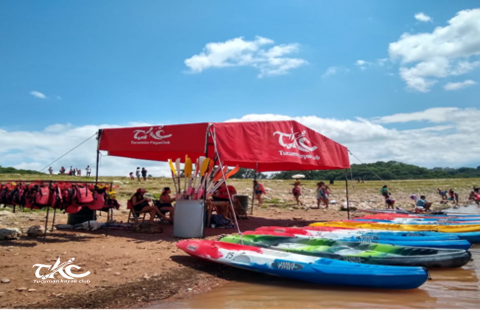
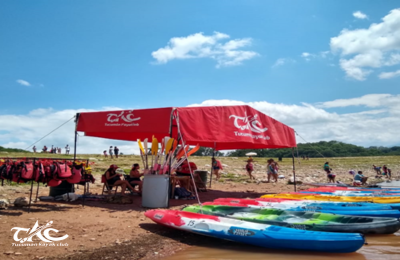
corregi donde encontrarnos y servicio de alquiler de kayak

diff --git a/src/components/views/servicios/AlquilerKayak.jsx b/src/components/views/servicios/AlquilerKayak.jsx
@@ -1,6 +1,6 @@
 import React from 'react';
 import { Container, Row, Col, Nav } from "react-bootstrap"
-import imgAlquilerKayak from "../../../assets/imagenes/portada.jpg"
+import imgAlquilerKayak from "../../../assets/imagenes/carpatkc.png"
 import whatsapp from "../../../assets/imagenes/icons8-whatsapp.svg"
 
 const AlquilerKayak = () => {
@@ -20,8 +20,8 @@ const AlquilerKayak = () => {
                             <article data-aos="fade-up" className='p-3 text-center'>
                                 <h5 className='textTitulo'>Alquiler de Kayaks</h5>
                                 <ul className='p-0 m-0'>
-                                    <li className='textSubtitulo'>Descripcion: <br /><span className='textExplicacion'>Lorem ipsum dolor sit amet consectetur adipisicing elit. Cum vero praesentium consequuntur in voluptas reiciendis pariatur optio nemo, voluptates error?</span></li>
-                                    <Nav.Link className="text-light mt-2 fs-5 d-flex justify-content-center align-items-center" target='_blank' href="https://api.whatsapp.com/send?phone=3816097754&text=¡Hola! me gustaria hacer una consulta sobre ALQUILERKayak DE QUINCHO PARA EVENTOS"><img src={whatsapp} className='icono-header mx-1' alt="whatsapp" />Enviar Mensaje</Nav.Link>
+                                    <li className='textSubtitulo'><span className='textExplicacion'>Nuestro servicio de alquiler de kayak ofrece turnos de 30 minutos, donde se incluye el remo, chaleco salvavidas y un instructivo detallado. Nuestros kayaks tienen capacidad para 2 o 3 personas, garantizando una experiencia segura y emocionante en el agua. ¡Ven y disfruta de la aventura con nosotros!</span><br /> Dias y horarios: <br /> <span className="textExplicacion">Lunes a Viernes de 12 a 18hs <br /> Sabados, Domingos y Feriados de 10 a 19hs</span></li>
+                                    <Nav.Link className="text-light mt-2 fs-5 d-flex justify-content-center align-items-center" target='_blank' href="https://api.whatsapp.com/send?phone=3816097754&text=¡Hola! me gustaria hacer una consulta sobre ALQUILER DE KAYAK"><img src={whatsapp} className='icono-header mx-1' alt="whatsapp" />Enviar Mensaje</Nav.Link>
                                 </ul>
                             </article>
                         </Col>

diff --git a/src/components/views/DondeEncontrarnos.jsx b/src/components/views/DondeEncontrarnos.jsx
@@ -1,8 +1,7 @@
 import React from 'react';
 import { FaMapMarkerAlt } from "react-icons/fa";
 import { Container, Row, Col } from "react-bootstrap"
-import carpatkc from "../../assets/imagenes/carpatkc.png"
-import logoTkc from "../../assets/logos/logoTransparente.png"
+import carpatkc from "../../assets/imagenes/base.png"
 
 
 
@@ -16,9 +15,9 @@ const DondeEncontrarnos = () => {
                     </div>
                     <h3 data-aos="fade-up" className=' m-0 p-4 text-center '> Donde encontrarnos</h3>
                     <Row data-aos="fade-up">
-                        <p className='p-2 text-center'>Estamos ubicados en El Cadillal (20km al norte de San Miguel de Tucumán), más precisamente en el dique Celestino Gelsi, en el sector de playa, justo debajo del bar La Isla, a simple vista podras ubicar nuestra carpa roja de TKC</p>
+                        <p className='p-2 text-center'>Nuestra ubicación se encuentra en El Cadillal, a tan solo 20 km al norte de San Miguel de Tucumán, específicamente en el dique Celestino Gelsi. Para llegar, desde la rotonda del Cadillal, deben tomar el primer desvío a la izquierda y luego, a 50 metros, girar a la derecha, por la calle que bordea un amplio espacio verde y una cancha de rugby. Al final de esta calle, encontrarán las playas del dique Celestino Gelsi y nuestra base operativa. ¡Los esperamos con ansias para vivir una experiencia inolvidable! <br /></p>
                         <Col md={6}>
-                            <img src={carpatkc} alt="carpa tkc" className=' carpaTkc ' />
+                            <img src={carpatkc} alt="carpa tkc" className='carpaTkc ' />
                         </Col>
                         <Col md={6}>
                             <div className='mb-3 w-100 h-100 '>

diff --git a/src/App.css b/src/App.css
@@ -412,7 +412,7 @@
 .ubicacion,
 .carpaTkc {
   width: 100%;
-  height: 100%;
+  height: 350px;
   border-radius: 10px;
   box-shadow: 6px 6px 6px rgba(78, 78, 78, 0.632);
 }
@@ -435,6 +435,7 @@
   .ubicacion,
   .carpaTkc {
     height: 230px;
+    margin-bottom: 20px;
   }
 }
 
